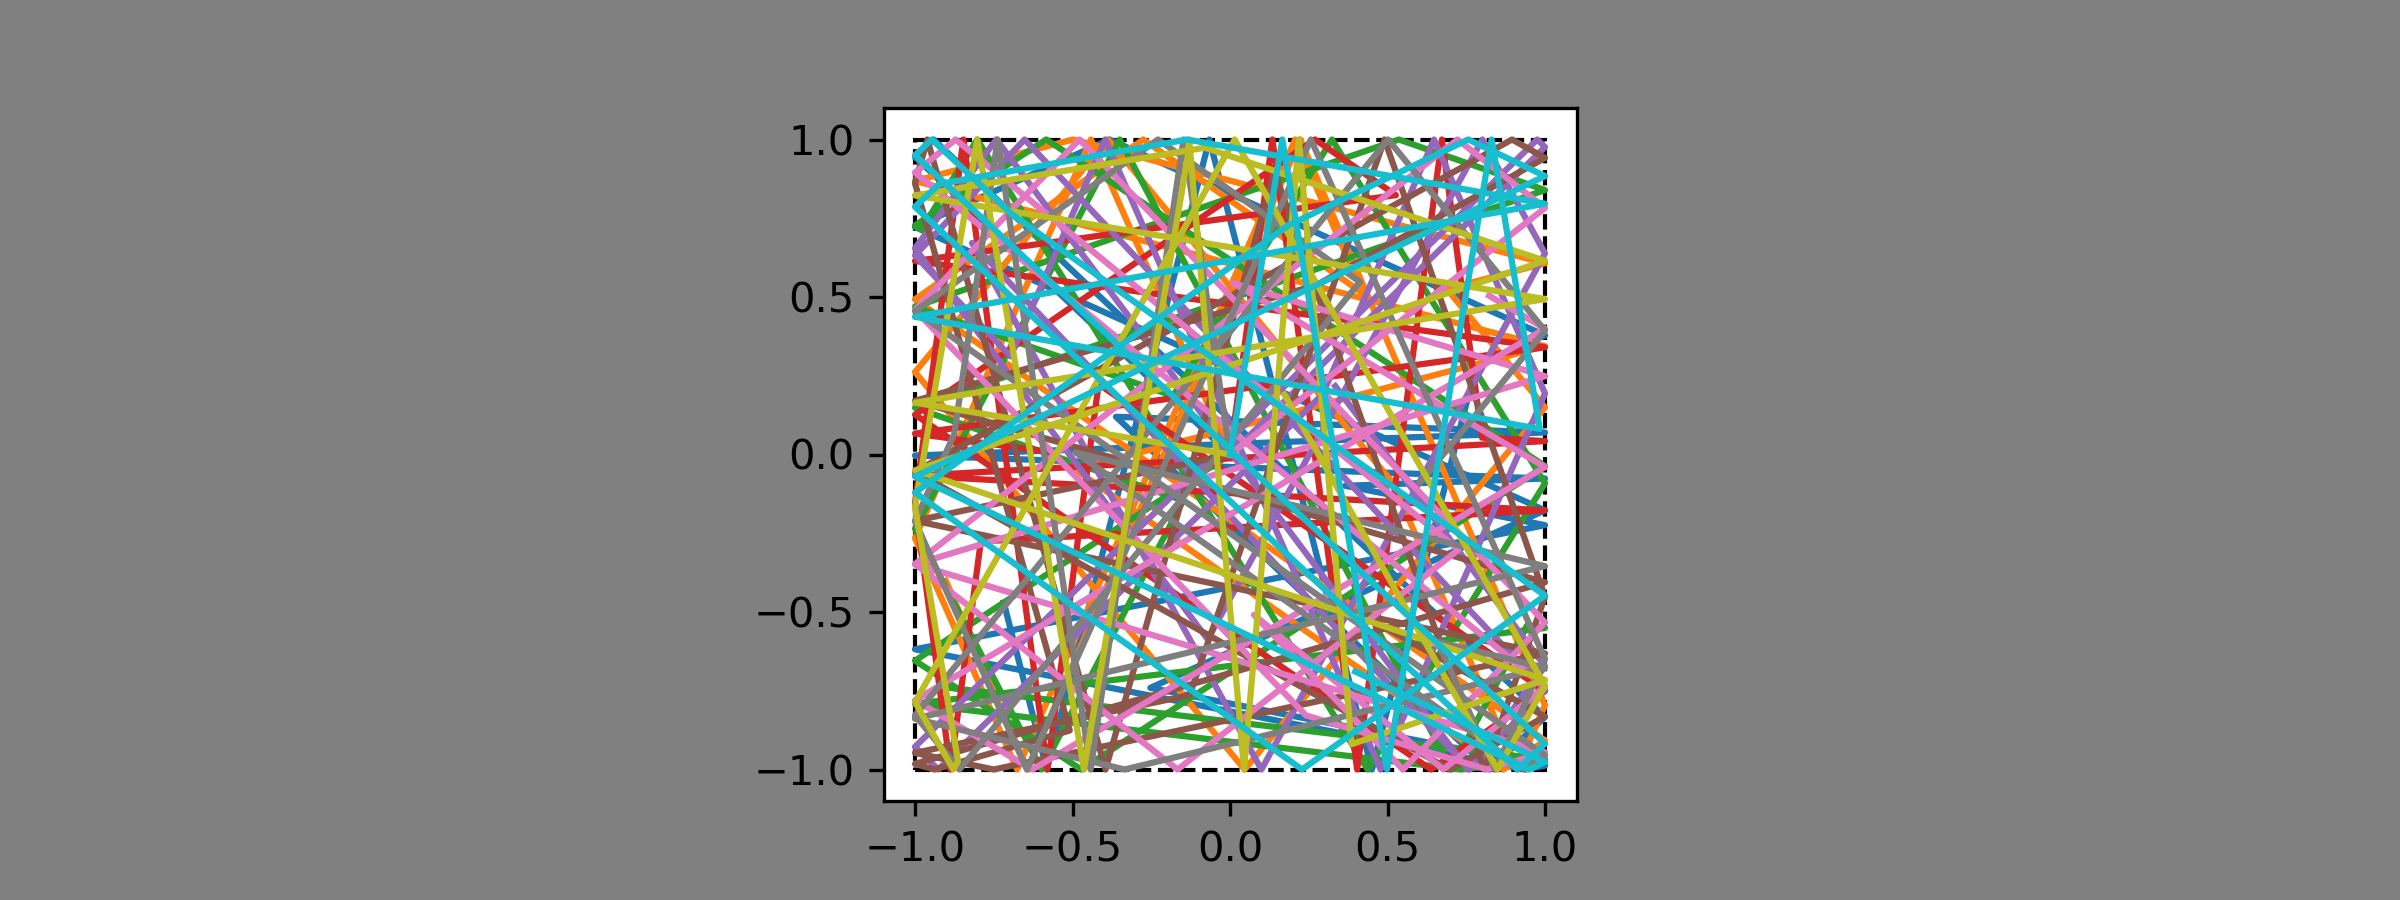
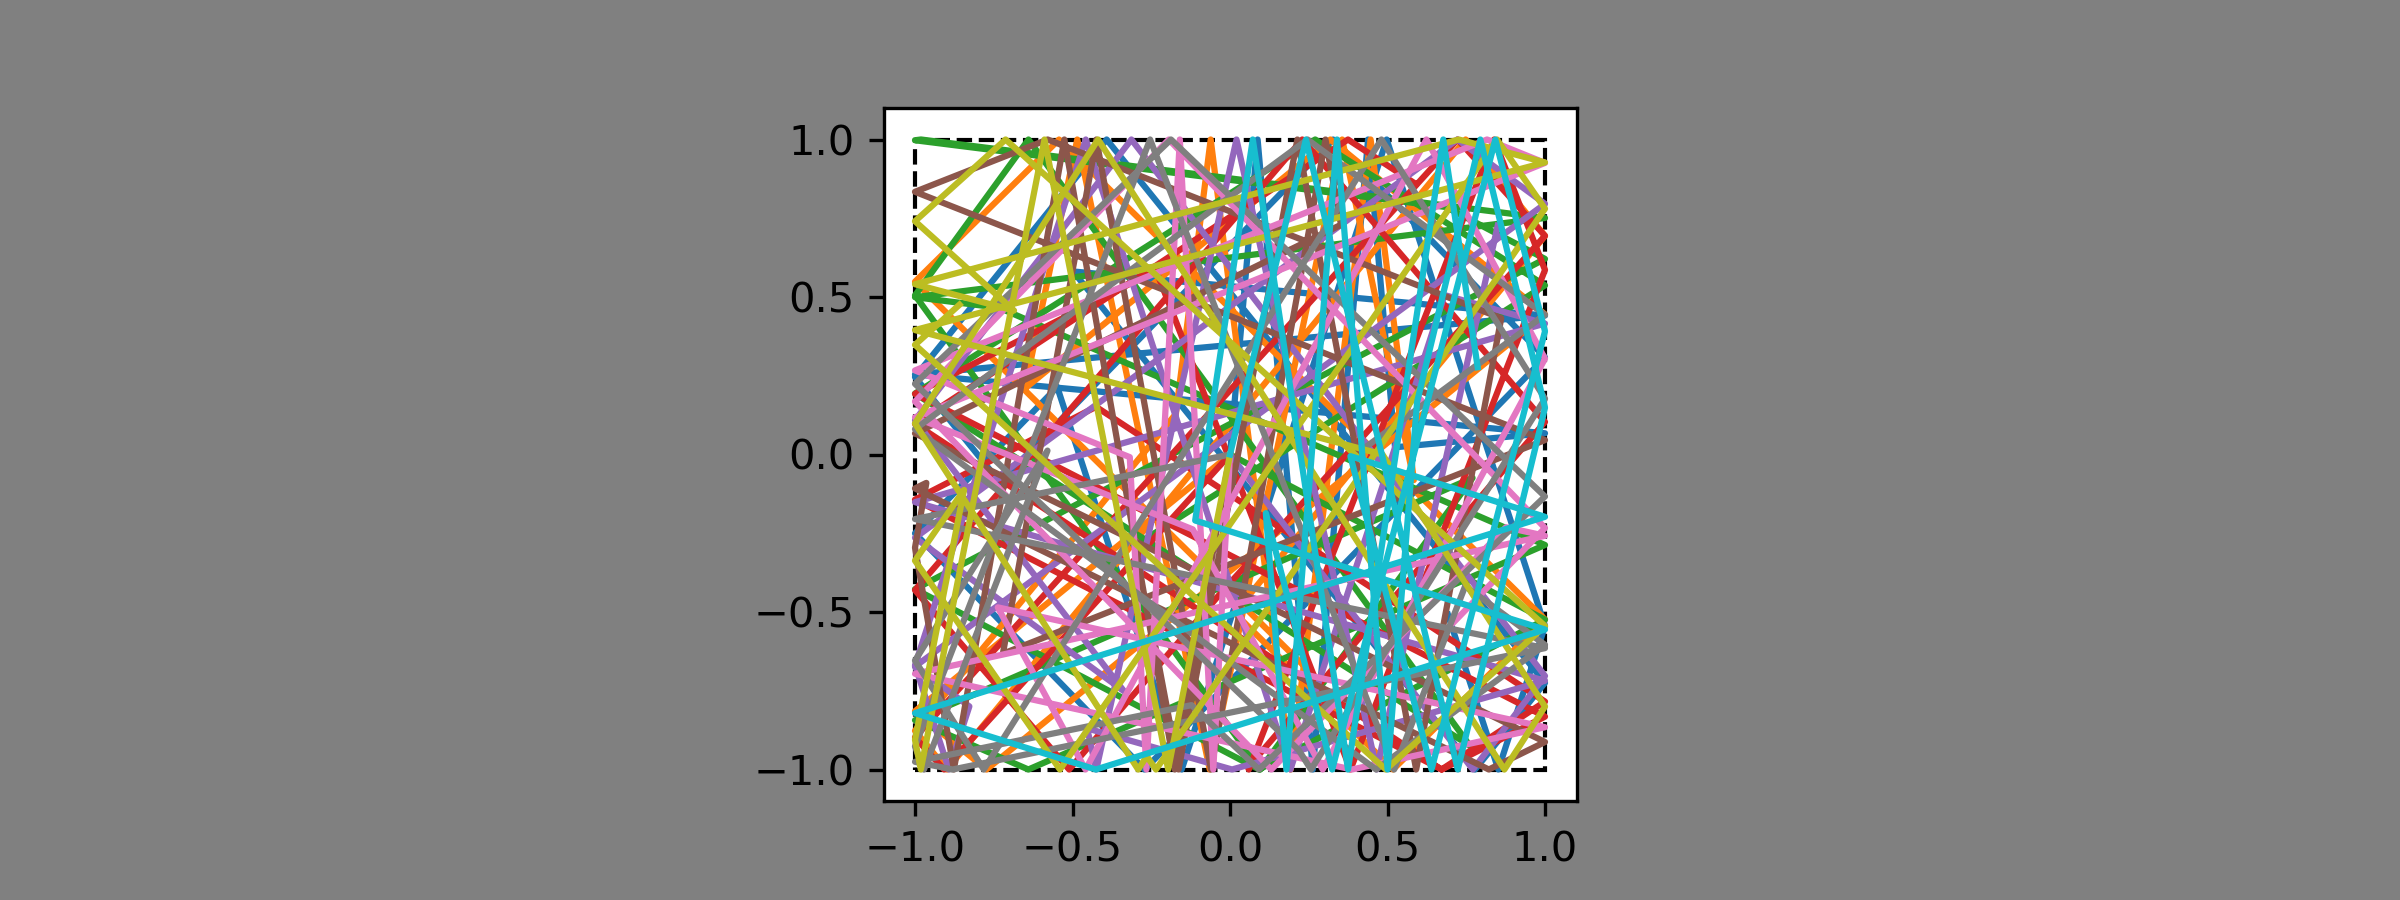
Renamed examples and added example with circular box

Changed region(s): [[0.375, 0.1244, 0.6562, 0.8711]]

diff --git a/examples/plot walks with circular wall exclusion.py b/examples/plot walks with circular wall exclusion.py
@@ -12,18 +12,16 @@ import matplotlib.patches as patches
 from pyRandomWalk import random_walk
 
 # Define the box for the random walks
-limits = {'x': [-1, 1], 'y': [-1, 1]}
+limits = {'r': 0.75, 'x_c': 0.5, 'y_c': 0.5}
 
 # Generate random walks
 random_walks = random_walk(
-    step_number=20, number_of_walks=2, limits=limits, wall_mode='reflect',
-    step_length=0.5)
-
+    step_number=200, number_of_walks=2, limits=limits, wall_mode='exclude',
+    step_length=0.5, box_shape='circle')
 
 # Query the different coordinates that are used for the plots
 all_coords = random_walks.get_coords('all')
 walk_coords = random_walks.get_coords('walk_points')
-reflect_coords = random_walks.get_coords('reflect_points')
 end_coords = random_walks.get_coords('end_points')
 
 
@@ -34,19 +32,15 @@ for curr_walk in range(random_walks.number_of_walks):
              ls='none', marker='o', ms='10', c='g')
     ax1.plot(walk_coords[curr_walk][:, 0], walk_coords[curr_walk][:, 1],
              ls='none', marker='o', c=['k', 'grey'][curr_walk % 2])
-    ax1.plot(reflect_coords[curr_walk][:, 0], reflect_coords[curr_walk][:, 1],
-             ls='none', marker='o', c='r')
     ax1.plot(all_coords[curr_walk][:, 0], all_coords[curr_walk][:, 1],
-             c=['k', 'grey'][curr_walk % 2])
+              c=['k', 'grey'][curr_walk % 2])
 
-ax1.set_xlim([-1.1, 1.1])
-ax1.set_ylim([-1.1, 1.1])
-box = patches.Rectangle((random_walks.limits[0, 0], random_walks.limits[1, 0]),
-                        random_walks.limits[0, 1]-random_walks.limits[0, 0],
-                        random_walks.limits[1, 1]-random_walks.limits[1, 0],
-                        linewidth=1, edgecolor='k', facecolor='none', ls='--')
+ax1.set_xlim([-0.6, 1.6])
+ax1.set_ylim([-0.6, 1.6])
+box = patches.Circle((limits['x_c'], limits['y_c']), radius=limits['r'],
+                     linewidth=1, edgecolor='k', facecolor='none', ls='--')
 ax1.add_patch(box)
 ax1.set_aspect('equal', adjustable='box')
 fig1.set_facecolor('grey')
 
-fig1.savefig('plot walks with wall reflections.png', dpi=600)
+fig1.savefig('plot walks with circular wall exclusion.png', dpi=600)

diff --git a/examples/plot walks with rectangular wall reflections.py b/examples/plot walks with rectangular wall reflections.py
@@ -1,0 +1,52 @@
+#!/usr/bin/env python3
+# -*- coding: utf-8 -*-
+"""
+Created on Wed Jan 19 19:05:05 2022
+
+@author: Alexander Southan
+"""
+
+import matplotlib.pyplot as plt
+import matplotlib.patches as patches
+
+from pyRandomWalk import random_walk
+
+# Define the box for the random walks
+limits = {'x': [-1, 1], 'y': [-1, 1]}
+
+# Generate random walks
+random_walks = random_walk(
+    step_number=20, number_of_walks=2, limits=limits, wall_mode='reflect',
+    step_length=0.5)
+
+
+# Query the different coordinates that are used for the plots
+all_coords = random_walks.get_coords('all')
+walk_coords = random_walks.get_coords('walk_points')
+reflect_coords = random_walks.get_coords('reflect_points')
+end_coords = random_walks.get_coords('end_points')
+
+
+# Plot the random walks
+fig1, ax1 = plt.subplots()
+for curr_walk in range(random_walks.number_of_walks):
+    ax1.plot(end_coords[curr_walk][:, 0], end_coords[curr_walk][:, 1],
+             ls='none', marker='o', ms='10', c='g')
+    ax1.plot(walk_coords[curr_walk][:, 0], walk_coords[curr_walk][:, 1],
+             ls='none', marker='o', c=['k', 'grey'][curr_walk % 2])
+    ax1.plot(reflect_coords[curr_walk][:, 0], reflect_coords[curr_walk][:, 1],
+             ls='none', marker='o', c='r')
+    ax1.plot(all_coords[curr_walk][:, 0], all_coords[curr_walk][:, 1],
+             c=['k', 'grey'][curr_walk % 2])
+
+ax1.set_xlim([-1.1, 1.1])
+ax1.set_ylim([-1.1, 1.1])
+box = patches.Rectangle((random_walks.limits[0, 0], random_walks.limits[1, 0]),
+                        random_walks.limits[0, 1]-random_walks.limits[0, 0],
+                        random_walks.limits[1, 1]-random_walks.limits[1, 0],
+                        linewidth=1, edgecolor='k', facecolor='none', ls='--')
+ax1.add_patch(box)
+ax1.set_aspect('equal', adjustable='box')
+fig1.set_facecolor('grey')
+
+fig1.savefig('plot walks with rectangular wall reflections.png', dpi=600)

diff --git a/examples/plot walks with rectangular wall exclusion.py b/examples/plot walks with rectangular wall exclusion.py
@@ -1,0 +1,48 @@
+#!/usr/bin/env python3
+# -*- coding: utf-8 -*-
+"""
+Created on Wed Jan 19 19:05:05 2022
+
+@author: Alexander Southan
+"""
+
+import matplotlib.pyplot as plt
+import matplotlib.patches as patches
+
+from pyRandomWalk import random_walk
+
+# Define the box for the random walks
+limits = {'x': [-1, 1], 'y': [-1, 1]}
+
+# Generate random walks
+random_walks = random_walk(
+    step_number=20, number_of_walks=2, limits=limits, wall_mode='exclude',
+    step_length=0.5)
+
+# Query the different coordinates that are used for the plots
+all_coords = random_walks.get_coords('all')
+walk_coords = random_walks.get_coords('walk_points')
+end_coords = random_walks.get_coords('end_points')
+
+
+# Plot the random walks
+fig1, ax1 = plt.subplots()
+for curr_walk in range(random_walks.number_of_walks):
+    ax1.plot(end_coords[curr_walk][:, 0], end_coords[curr_walk][:, 1],
+             ls='none', marker='o', ms='10', c='g')
+    ax1.plot(walk_coords[curr_walk][:, 0], walk_coords[curr_walk][:, 1],
+             ls='none', marker='o', c=['k', 'grey'][curr_walk % 2])
+    ax1.plot(all_coords[curr_walk][:, 0], all_coords[curr_walk][:, 1],
+              c=['k', 'grey'][curr_walk % 2])
+
+ax1.set_xlim([-1.1, 1.1])
+ax1.set_ylim([-1.1, 1.1])
+box = patches.Rectangle((random_walks.limits[0, 0], random_walks.limits[1, 0]),
+                        random_walks.limits[0, 1]-random_walks.limits[0, 0],
+                        random_walks.limits[1, 1]-random_walks.limits[1, 0],
+                        linewidth=1, edgecolor='k', facecolor='none', ls='--')
+ax1.add_patch(box)
+ax1.set_aspect('equal', adjustable='box')
+fig1.set_facecolor('grey')
+
+fig1.savefig('plot walks with rectangular wall exclusion.png', dpi=600)
